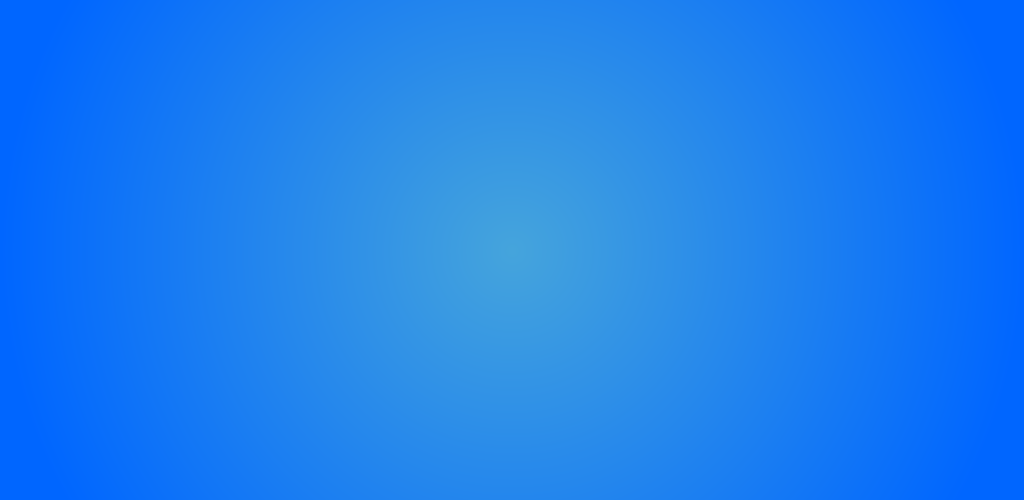
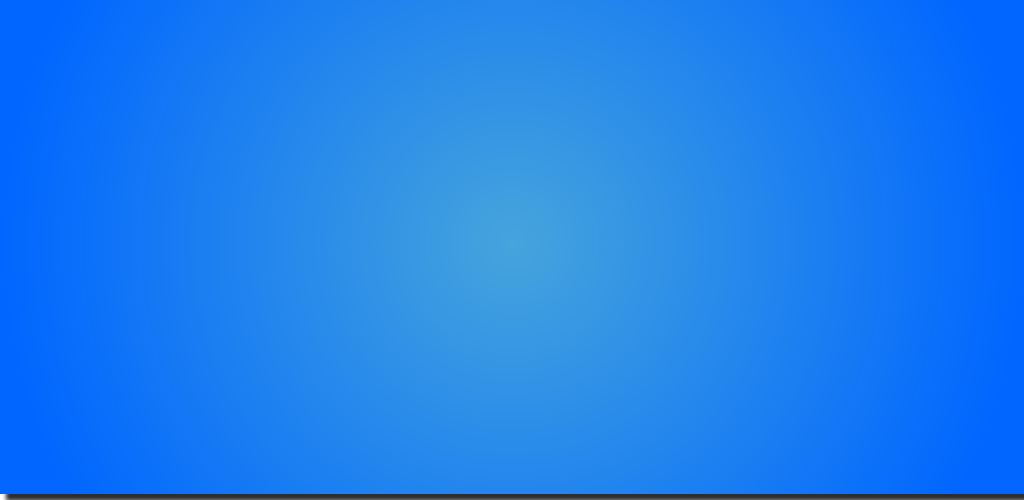
Moificações como funciona - Antonio Ricardo

Changed region(s): [[0.0, 0.99, 1.0, 1.0]]

diff --git a/public/assets/stylesheets/main.css b/public/assets/stylesheets/main.css
@@ -21,7 +21,7 @@ body {
 }
 
 ::selection {
-    background: #b3d4fc;
+    background: #45A4DC;
     text-shadow: none;
 }
 
@@ -141,8 +141,7 @@ h2 span{
 }
 
 .header-right h2{
-    background:url('/assets/slogan-sublinhado.png') no-repeat 177px 90px;
-}
+    }
 
 .pagina-parceiros .header-right h2{
     background-position: 45px 90px;
@@ -183,7 +182,7 @@ h4{
 }
 
 h4 span, h4 b{
-    color: #353535;
+    color: #000;
     font-weight: normal;
 }
 
@@ -235,6 +234,7 @@ h6 span{
 body{
     background:#fff url('/assets/images/bg.png') no-repeat center top;
     background-size: 100%;
+    border-bottom: 80px solid black;
 }
 
 .wrapper{
@@ -265,15 +265,15 @@ a.btn
     -moz-border-radius:     8px;
     border-radius:          8px;
 
-    -webkit-box-shadow: inset 0px 0px 5px 0px rgba(0, 0, 0, .2);
-    -moz-box-shadow:    inset 0px 0px 5px 0px rgba(0, 0, 0, .2);
+    -webkit-box-shadow: inset 0px 0px 5px 0px #000;
+    -moz-box-shadow:    inset 0px 0px 5px 0px #000;
     box-shadow:         inset 0px 0px 5px 0px rgba(0, 0, 0, .2);
 
-    background:rgba(0, 0, 0, .2);
+    background:#000;
     margin-top:2px;
     margin-bottom:2px;
 
-    text-shadow: 0 2px 0 #ff630c;
+    text-shadow: 0 2px 0 #000;
 }
 
 a.btn span
@@ -282,65 +282,49 @@ a.btn span
     text-align: center;
 
     /* Safari 4-5, Chrome 1-9 */
-    background: -webkit-gradient(linear, 0% 0%, 0% 100%, from(#ffb248), to(#ff871a));
+    background: -webkit-gradient(linear, 0% 0%, 0% 100%, from(#000000), to(#000000));
 
     /* Safari 5.1, Chrome 10+ */
-    background: -webkit-linear-gradient(top, #ffb248, #ff871a);
+    background: -webkit-linear-gradient(top, #000000, #000000);
 
     /* Firefox 3.6+ */
-    background: -moz-linear-gradient(top, #ffb248, #ff871a);
+    background: -moz-linear-gradient(top, #000000, #000000);
 
     /* IE 10 */
-    background: -ms-linear-gradient(top, #ffb248, #ff871a);
+    background: -ms-linear-gradient(top, #000000, #000000);
 
     /* Opera 11.10+ */
-    background: -o-linear-gradient(top, #ffb248, #ff871a);
+    background: -o-linear-gradient(top, #000000, #000000);
 
     /*For IE7-8-9*/
-    filter: progid:DXImageTransform.Microsoft.gradient(GradientType=0,startColorstr='#ffb248', endColorstr='#ff871a');
+    filter: progid:DXImageTransform.Microsoft.gradient(GradientType=0,startColorstr='#000000', endColorstr='#000000');
 
     -webkit-border-radius:  5px;
     -moz-border-radius:     5px;
     border-radius:          5px;
 
-    -webkit-box-shadow: inset 0px -3px 1px 0px #ff640c,
-    inset 0px -3px 0px 0px rgba(255, 115, 20, 1),
-    0px  2px 3px 0px rgba(0, 0, 0, .3);
+    -webkit-box-shadow: inset 0px -3px 1px 0px #000000,
+    inset 0px -3px 0px 0px #000,
+    0px  2px 3px 0px #000;
 
-    -moz-box-shadow:    inset 0px -3px 1px 0px #ff640c,
-    inset 0px -3px 0px 0px rgba(255, 115, 20, 1),
-    0px  2px 3px 0px rgba(0, 0, 0, .3);
+    -moz-box-shadow:    inset 0px -3px 1px 0px #000,
+    inset 0px -3px 0px 0px #000,
+    0px  2px 3px 0px #000;
 
-    box-shadow:         inset 0px -3px 1px 0px #ff640c,
-    inset 0px -3px 0px 0px rgba(255, 115, 20, 1),
-    0px  2px 3px 0px rgba(0, 0, 0, .3);
+    box-shadow:         inset 0px -3px 1px 0px #000,
+    inset 0px -3px 0px 0px #000,
+    0px  2px 3px 0px #000;
 
     padding:10px;
     margin:9px;
 }
 
 a.btn:hover span{
-    /* Safari 4-5, Chrome 1-9 */
-    background: -webkit-gradient(linear, 0% 0%, 0% 100%, from(#ff871a), to(#ffb248));
-
-    /* Safari 5.1, Chrome 10+ */
-    background: -webkit-linear-gradient(top, #ff871a, #ffb248);
-
-    /* Firefox 3.6+ */
-    background: -moz-linear-gradient(top, #ff871a, #ffb248);
-
-    /* IE 10 */
-    background: -ms-linear-gradient(top, #ff871a, #ffb248);
-
-    /* Opera 11.10+ */
-    background: -o-linear-gradient(top, #ff871a, #ffb248);
-
-    /*For IE7-8-9*/
-    filter: progid:DXImageTransform.Microsoft.gradient(GradientType=0,startColorstr='#ff871a', endColorstr='#ffb248');
-}
+    color: #45A4DC;
+   }
 
 .header-right a.btn{
-    margin-left:40px;
+    margin-left:140px;
     float: left;
 }
 
@@ -418,7 +402,7 @@ a.btn:hover span{
 }
 
 .wrapper-border{
-    border-top: 1px dashed #fff;
+    border: 2px dashed #000;
     top:502px;
     position: absolute;
     z-index: 1;
@@ -442,21 +426,12 @@ header{
     position: relative;
     z-index: 2;
 }
-.iphone-splash{
-    width: 319px;
-    height: 653px;
-    background: url('/assets/images/iphone-splash.png') no-repeat 0 40px;
-    float: left;
-    position: relative;
-    z-index: 2;
-}
+
 
 .header-right{
     float: left;
-    width: 452px;
-    padding-top:118px;
-    text-align: center;
-    padding-left: 110px;
+    width: 100%;
+    margin-left: 200px;
 }
 
 /* sections */
@@ -481,7 +456,7 @@ header{
 }
 
 .onde-estiver{
-    background: url("/assets/images/bg-onde-estiver.png") no-repeat right 30px;
+    background: url("/assets/images/bg-onde-estiver.png") no-repeat right 40px;
     padding-bottom: 75px;
     border-bottom: 1px dashed #c2c2c2;
     margin-bottom: 55px;
